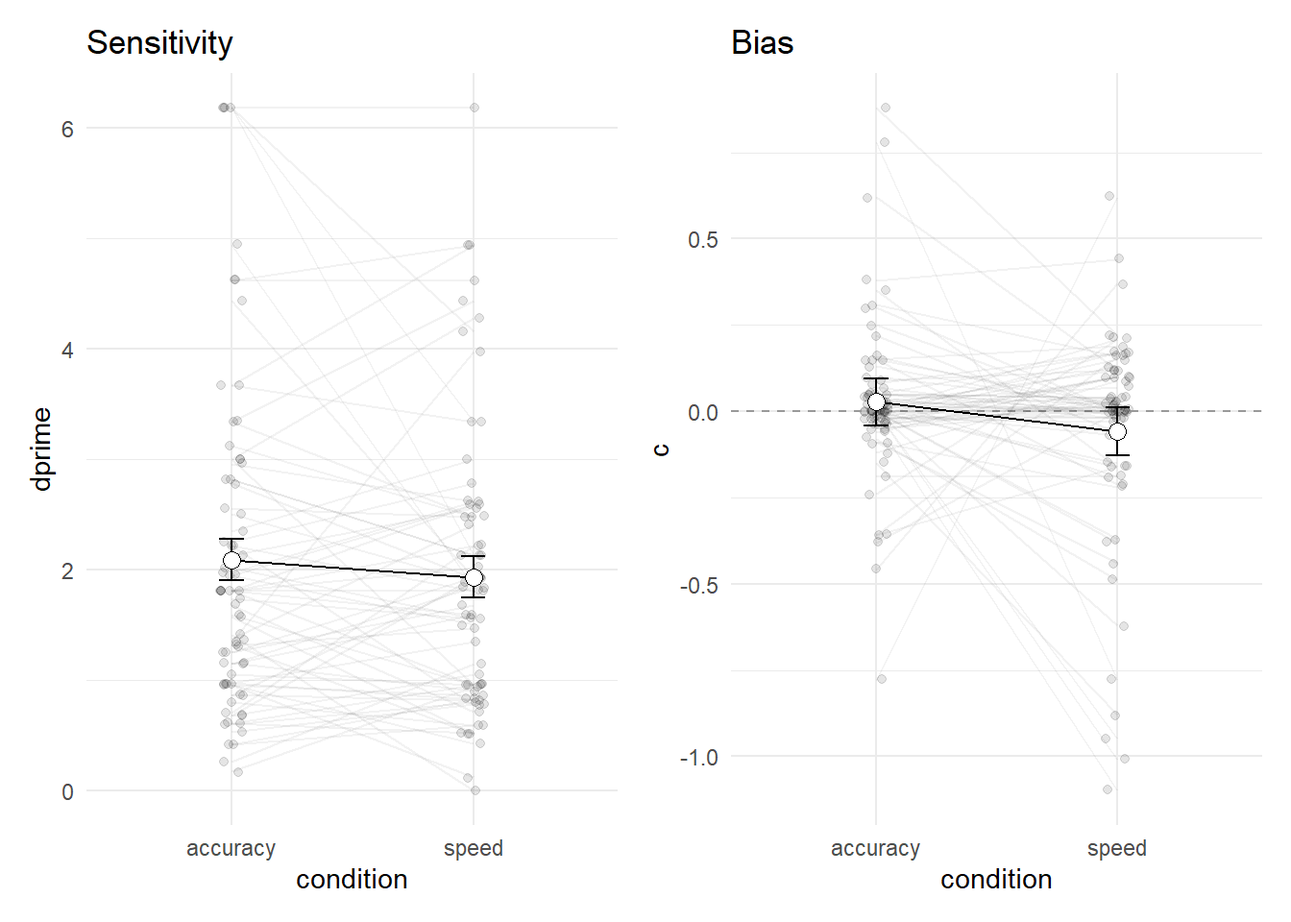
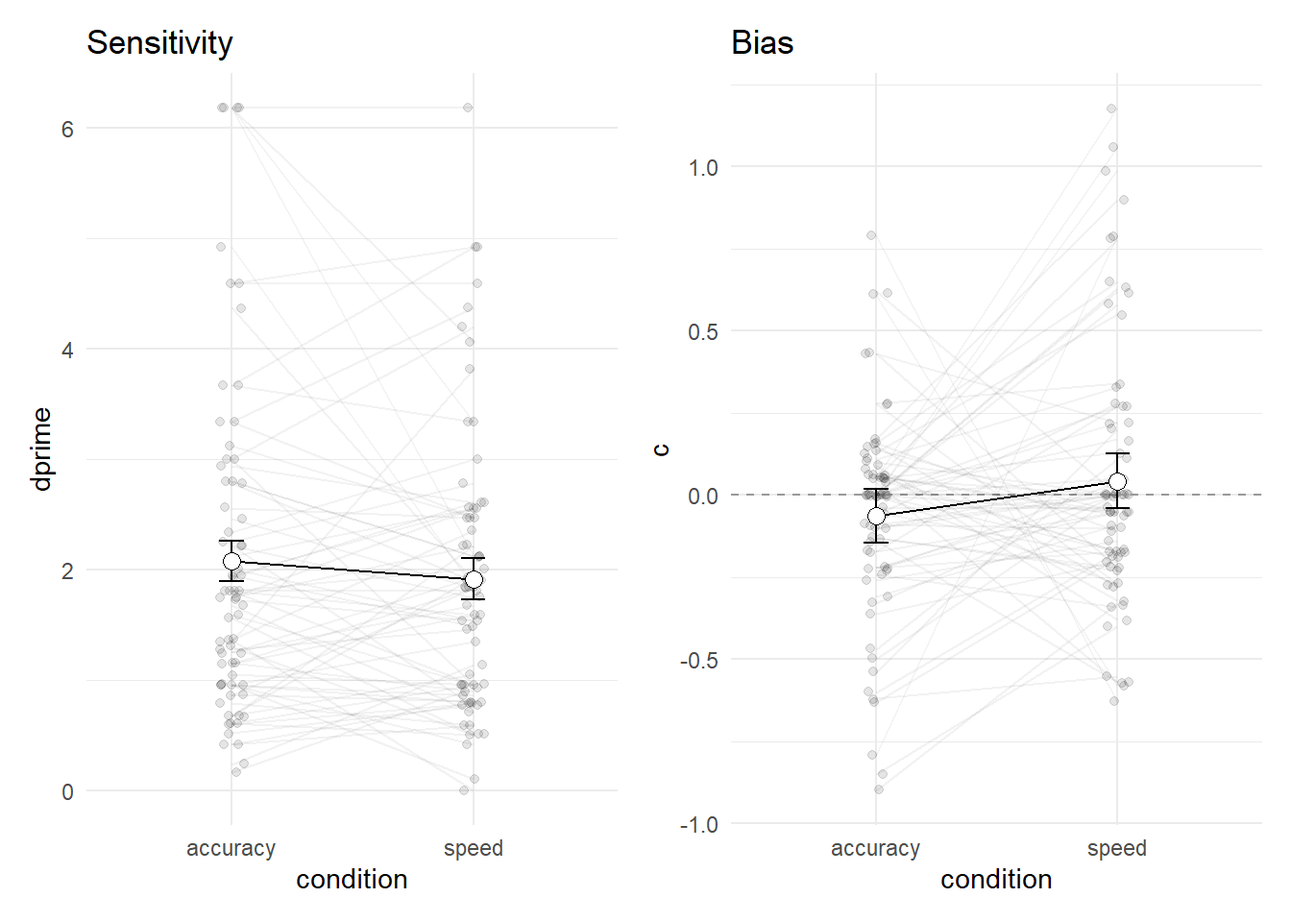
fix typo sdt

diff --git a/docs/sdt.html b/docs/sdt.html
@@ -726,11 +726,11 @@ Hands-on: Hit, False Alarm, Miss und Correct Rejection labeln
 <div class="cell-output cell-output-stdout">
 <pre><code>       id trial direction condition corrAns  resp corr        rt type
 1 sub-007     1     right     speed   right right    1 0.6537022  Hit
-2 sub-007     2      left     speed    left right    0 0.5821858 Miss
+2 sub-007     2      left     speed    left right    0 0.5821858   FA
 3 sub-007     3      left     speed    left  left    1 1.3868371   CR
 4 sub-007     4     right     speed   right right    1 0.9550371  Hit
-5 sub-007     5      left     speed    left right    0 0.4990127 Miss
-6 sub-007     6     right     speed   right  left    0 0.6926959   FA</code></pre>
+5 sub-007     5      left     speed    left right    0 0.4990127   FA
+6 sub-007     6     right     speed   right  left    0 0.6926959 Miss</code></pre>
 </div>
 </div>
 </div>
@@ -790,9 +790,9 @@ Relative Häufigkeiten von <em>Hits</em> und <em>False Alarms</em> berechnen
    id      condition type      n
    &lt;chr&gt;   &lt;chr&gt;     &lt;chr&gt; &lt;int&gt;
  1 sub-007 accuracy  CR       21
- 2 sub-007 accuracy  FA       10
+ 2 sub-007 accuracy  FA        9
  3 sub-007 accuracy  Hit      20
- 4 sub-007 accuracy  Miss      9
+ 4 sub-007 accuracy  Miss     10
  5 sub-007 speed     CR       20
  6 sub-007 speed     FA       10
  7 sub-007 speed     Hit      20
@@ -815,16 +815,16 @@ Relative Häufigkeiten von <em>Hits</em> und <em>False Alarms</em> berechnen
 # Groups:   id, condition [140]
    id      condition    CR    FA   Hit  Miss
    &lt;chr&gt;   &lt;chr&gt;     &lt;int&gt; &lt;int&gt; &lt;int&gt; &lt;int&gt;
- 1 sub-007 accuracy     21    10    20     9
+ 1 sub-007 accuracy     21     9    20    10
  2 sub-007 speed        20    10    20    10
  3 sub-010 accuracy     30    NA    30    NA
  4 sub-010 speed        30    NA    30    NA
- 5 sub-011 accuracy     26     1    29     4
- 6 sub-011 speed        26     2    28     4
+ 5 sub-011 accuracy     26     4    29     1
+ 6 sub-011 speed        26     4    28     2
  7 sub-012 accuracy     29     1    29     1
- 8 sub-012 speed        30     1    29    NA
- 9 sub-015 accuracy     25     6    24     5
-10 sub-015 speed        22     5    25     8
+ 8 sub-012 speed        30    NA    29     1
+ 9 sub-015 accuracy     25     5    24     6
+10 sub-015 speed        22     8    25     5
 # ℹ 130 more rows</code></pre>
 </div>
 </div>
@@ -847,16 +847,16 @@ Relative Häufigkeiten von <em>Hits</em> und <em>False Alarms</em> berechnen
 # Groups:   id, condition [140]
    id      condition    CR    FA   Hit  Miss
    &lt;chr&gt;   &lt;chr&gt;     &lt;int&gt; &lt;dbl&gt; &lt;int&gt; &lt;dbl&gt;
- 1 sub-007 accuracy     21    10    20     9
+ 1 sub-007 accuracy     21     9    20    10
  2 sub-007 speed        20    10    20    10
  3 sub-010 accuracy     30     0    30     0
  4 sub-010 speed        30     0    30     0
- 5 sub-011 accuracy     26     1    29     4
- 6 sub-011 speed        26     2    28     4
+ 5 sub-011 accuracy     26     4    29     1
+ 6 sub-011 speed        26     4    28     2
  7 sub-012 accuracy     29     1    29     1
- 8 sub-012 speed        30     1    29     0
- 9 sub-015 accuracy     25     6    24     5
-10 sub-015 speed        22     5    25     8
+ 8 sub-012 speed        30     0    29     1
+ 9 sub-015 accuracy     25     5    24     6
+10 sub-015 speed        22     8    25     5
 # ℹ 130 more rows</code></pre>
 </div>
 </div>
@@ -890,16 +890,16 @@ Hands-on: <em>Hit Rate</em> und <em>False Alarm Rate</em> berechnen
 # Groups:   id, condition [140]
    id      condition    CR    FA   Hit  Miss hit_rate fa_rate
    &lt;chr&gt;   &lt;chr&gt;     &lt;int&gt; &lt;dbl&gt; &lt;int&gt; &lt;dbl&gt;    &lt;dbl&gt;   &lt;dbl&gt;
- 1 sub-007 accuracy     21    10    20     9    0.690  0.323 
+ 1 sub-007 accuracy     21     9    20    10    0.667  0.3   
  2 sub-007 speed        20    10    20    10    0.667  0.333 
  3 sub-010 accuracy     30     0    30     0    1      0     
  4 sub-010 speed        30     0    30     0    1      0     
- 5 sub-011 accuracy     26     1    29     4    0.879  0.0370
- 6 sub-011 speed        26     2    28     4    0.875  0.0714
+ 5 sub-011 accuracy     26     4    29     1    0.967  0.133 
+ 6 sub-011 speed        26     4    28     2    0.933  0.133 
  7 sub-012 accuracy     29     1    29     1    0.967  0.0333
- 8 sub-012 speed        30     1    29     0    1      0.0323
- 9 sub-015 accuracy     25     6    24     5    0.828  0.194 
-10 sub-015 speed        22     5    25     8    0.758  0.185 
+ 8 sub-012 speed        30     0    29     1    0.967  0     
+ 9 sub-015 accuracy     25     5    24     6    0.8    0.167 
+10 sub-015 speed        22     8    25     5    0.833  0.267 
 # ℹ 130 more rows</code></pre>
 </div>
 </div>
@@ -929,16 +929,16 @@ Hands-on: <em>Hit Rate</em> und <em>False Alarm Rate</em> berechnen
 # Groups:   id, condition [140]
    id      condition    CR    FA   Hit  Miss hit_rate fa_rate
    &lt;chr&gt;   &lt;chr&gt;     &lt;int&gt; &lt;dbl&gt; &lt;int&gt; &lt;dbl&gt;    &lt;dbl&gt;   &lt;dbl&gt;
- 1 sub-007 accuracy     21    10    20     9    0.690  0.323 
+ 1 sub-007 accuracy     21     9    20    10    0.667  0.3   
  2 sub-007 speed        20    10    20    10    0.667  0.333 
  3 sub-010 accuracy     30     0    30     0    0.999  0.001 
  4 sub-010 speed        30     0    30     0    0.999  0.001 
- 5 sub-011 accuracy     26     1    29     4    0.879  0.0370
- 6 sub-011 speed        26     2    28     4    0.875  0.0714
+ 5 sub-011 accuracy     26     4    29     1    0.967  0.133 
+ 6 sub-011 speed        26     4    28     2    0.933  0.133 
  7 sub-012 accuracy     29     1    29     1    0.967  0.0333
- 8 sub-012 speed        30     1    29     0    0.999  0.0323
- 9 sub-015 accuracy     25     6    24     5    0.828  0.194 
-10 sub-015 speed        22     5    25     8    0.758  0.185 
+ 8 sub-012 speed        30     0    29     1    0.967  0.001 
+ 9 sub-015 accuracy     25     5    24     6    0.8    0.167 
+10 sub-015 speed        22     8    25     5    0.833  0.267 
 # ℹ 130 more rows</code></pre>
 </div>
 </div>
@@ -968,16 +968,16 @@ Hands-on: <span class="math inline">\(z\)</span>-Transformation
 # Groups:   id, condition [140]
    id      condition    CR    FA   Hit  Miss hit_rate fa_rate   zhr    zfa
    &lt;chr&gt;   &lt;chr&gt;     &lt;int&gt; &lt;dbl&gt; &lt;int&gt; &lt;dbl&gt;    &lt;dbl&gt;   &lt;dbl&gt; &lt;dbl&gt;  &lt;dbl&gt;
- 1 sub-007 accuracy     21    10    20     9    0.690  0.323  0.495 -0.460
+ 1 sub-007 accuracy     21     9    20    10    0.667  0.3    0.431 -0.524
  2 sub-007 speed        20    10    20    10    0.667  0.333  0.431 -0.431
  3 sub-010 accuracy     30     0    30     0    0.999  0.001  3.09  -3.09 
  4 sub-010 speed        30     0    30     0    0.999  0.001  3.09  -3.09 
- 5 sub-011 accuracy     26     1    29     4    0.879  0.0370 1.17  -1.79 
- 6 sub-011 speed        26     2    28     4    0.875  0.0714 1.15  -1.47 
+ 5 sub-011 accuracy     26     4    29     1    0.967  0.133  1.83  -1.11 
+ 6 sub-011 speed        26     4    28     2    0.933  0.133  1.50  -1.11 
  7 sub-012 accuracy     29     1    29     1    0.967  0.0333 1.83  -1.83 
- 8 sub-012 speed        30     1    29     0    0.999  0.0323 3.09  -1.85 
- 9 sub-015 accuracy     25     6    24     5    0.828  0.194  0.945 -0.865
-10 sub-015 speed        22     5    25     8    0.758  0.185  0.699 -0.896
+ 8 sub-012 speed        30     0    29     1    0.967  0.001  1.83  -3.09 
+ 9 sub-015 accuracy     25     5    24     6    0.8    0.167  0.842 -0.967
+10 sub-015 speed        22     8    25     5    0.833  0.267  0.967 -0.623
 # ℹ 130 more rows</code></pre>
 </div>
 </div>
@@ -1013,16 +1013,16 @@ Hands-on: <span class="math inline">\(d'\)</span> und <span class="math inline">
 # Groups:   id, condition [140]
    id     condition    CR    FA   Hit  Miss hit_rate fa_rate   zhr    zfa dprime
    &lt;chr&gt;  &lt;chr&gt;     &lt;int&gt; &lt;dbl&gt; &lt;int&gt; &lt;dbl&gt;    &lt;dbl&gt;   &lt;dbl&gt; &lt;dbl&gt;  &lt;dbl&gt;  &lt;dbl&gt;
- 1 sub-0… accuracy     21    10    20     9    0.690  0.323  0.495 -0.460   0.96
+ 1 sub-0… accuracy     21     9    20    10    0.667  0.3    0.431 -0.524   0.96
  2 sub-0… speed        20    10    20    10    0.667  0.333  0.431 -0.431   0.86
  3 sub-0… accuracy     30     0    30     0    0.999  0.001  3.09  -3.09    6.18
  4 sub-0… speed        30     0    30     0    0.999  0.001  3.09  -3.09    6.18
- 5 sub-0… accuracy     26     1    29     4    0.879  0.0370 1.17  -1.79    2.96
- 6 sub-0… speed        26     2    28     4    0.875  0.0714 1.15  -1.47    2.62
+ 5 sub-0… accuracy     26     4    29     1    0.967  0.133  1.83  -1.11    2.94
+ 6 sub-0… speed        26     4    28     2    0.933  0.133  1.50  -1.11    2.61
  7 sub-0… accuracy     29     1    29     1    0.967  0.0333 1.83  -1.83    3.67
- 8 sub-0… speed        30     1    29     0    0.999  0.0323 3.09  -1.85    4.94
- 9 sub-0… accuracy     25     6    24     5    0.828  0.194  0.945 -0.865   1.81
-10 sub-0… speed        22     5    25     8    0.758  0.185  0.699 -0.896   1.59
+ 8 sub-0… speed        30     0    29     1    0.967  0.001  1.83  -3.09    4.92
+ 9 sub-0… accuracy     25     5    24     6    0.8    0.167  0.842 -0.967   1.81
+10 sub-0… speed        22     8    25     5    0.833  0.267  0.967 -0.623   1.59
 # ℹ 130 more rows
 # ℹ 2 more variables: k &lt;dbl&gt;, c &lt;dbl&gt;</code></pre>
 </div>
@@ -1054,16 +1054,16 @@ Hands-on: Datensatz erstellen
 # Groups:   id, condition [140]
    id      condition dprime     c
    &lt;chr&gt;   &lt;chr&gt;      &lt;dbl&gt; &lt;dbl&gt;
- 1 sub-007 accuracy    0.96 -0.02
+ 1 sub-007 accuracy    0.96  0.05
  2 sub-007 speed       0.86  0   
  3 sub-010 accuracy    6.18  0   
  4 sub-010 speed       6.18  0   
- 5 sub-011 accuracy    2.96  0.31
- 6 sub-011 speed       2.62  0.16
+ 5 sub-011 accuracy    2.94 -0.36
+ 6 sub-011 speed       2.61 -0.2 
  7 sub-012 accuracy    3.67  0   
- 8 sub-012 speed       4.94 -0.62
- 9 sub-015 accuracy    1.81 -0.04
-10 sub-015 speed       1.59  0.1 
+ 8 sub-012 speed       4.92  0.63
+ 9 sub-015 accuracy    1.81  0.06
+10 sub-015 speed       1.59 -0.17
 # ℹ 130 more rows</code></pre>
 </div>
 </div>

diff --git a/docs/intro_python.html b/docs/intro_python.html
@@ -267,7 +267,7 @@ globalThis.qpyodideCustomizedPyodideOptions = {
 }
 
 // Store cell data
-globalThis.qpyodideCellDetails = [{"id":1,"code":"x = 5\nprint(x)\n\nmeine_liste = [10, 20, 30]\nprint(meine_liste[0])  # Erstes Element\nprint(meine_liste[-1]) # Letztes Element\n\n# Dictionary\nteilnehmer = {\"id\": \"S01\", \"alter\": 22}\nprint(teilnehmer[\"id\"])\n\nimport numpy as np\n# Array\nsignal = np.array([0.1, 0.2, 0.3])\nprint(signal.mean())","options":{"fig-height":5,"message":"true","classes":"","output":"true","read-only":"false","fig-width":7,"results":"markup","dpi":72,"warning":"true","context":"interactive","out-height":"","out-width":"700px","comment":"","autorun":"","label":"","fig-cap":""}},{"id":2,"code":"","options":{"fig-height":5,"message":"true","classes":"","output":"true","read-only":"false","fig-width":7,"results":"markup","dpi":72,"warning":"true","context":"interactive","out-height":"","out-width":"700px","comment":"","autorun":"","label":"","fig-cap":""}},{"id":3,"code":"import pandas as pd\nimport matplotlib.pyplot as plt","options":{"fig-height":5,"message":"true","classes":"","output":"true","read-only":"false","fig-width":7,"results":"markup","dpi":72,"warning":"true","context":"interactive","out-height":"","out-width":"700px","comment":"","autorun":"","label":"","fig-cap":""}},{"id":4,"code":"","options":{"fig-height":5,"message":"true","classes":"","output":"true","read-only":"false","fig-width":7,"results":"markup","dpi":72,"warning":"true","context":"interactive","out-height":"","out-width":"700px","comment":"","autorun":"","label":"","fig-cap":""}},{"id":5,"code":"","options":{"fig-height":5,"message":"true","classes":"","output":"true","read-only":"false","fig-width":7,"results":"markup","dpi":72,"warning":"true","context":"interactive","out-height":"","out-width":"700px","comment":"","autorun":"","label":"","fig-cap":""}},{"id":6,"code":"import pandas as pd\n\ndf = pd.read_csv(\"https://raw.githubusercontent.com/mwaskom/seaborn-data/master/iris.csv\")\n\nprint(df.head())","options":{"fig-height":5,"message":"true","classes":"","output":"true","read-only":"false","fig-width":7,"results":"markup","dpi":72,"warning":"true","context":"interactive","out-height":"","out-width":"700px","comment":"","autorun":"","label":"","fig-cap":""}},{"id":7,"code":"","options":{"fig-height":5,"message":"true","classes":"","output":"true","read-only":"false","fig-width":7,"results":"markup","dpi":72,"warning":"true","context":"interactive","out-height":"","out-width":"700px","comment":"","autorun":"","label":"","fig-cap":""}},{"id":8,"code":"# Eine Spalte anzeigen\nprint(df[\"species\"])\n\n# Erste drei Zeilen\nprint(df.head(3))\n\n# Erste Zeile\nprint(df.iloc[0])\n\n# Wert aus Zeile 1, Spalte \"sepal_length\"\nprint(df.iloc[0][\"sepal_length\"])","options":{"fig-height":5,"message":"true","classes":"","output":"true","read-only":"false","fig-width":7,"results":"markup","dpi":72,"warning":"true","context":"interactive","out-height":"","out-width":"700px","comment":"","autorun":"","label":"","fig-cap":""}},{"id":9,"code":"","options":{"fig-height":5,"message":"true","classes":"","output":"true","read-only":"false","fig-width":7,"results":"markup","dpi":72,"warning":"true","context":"interactive","out-height":"","out-width":"700px","comment":"","autorun":"","label":"","fig-cap":""}},{"id":10,"code":"# Filter\nsetosa = df[df[\"species\"] == \"setosa\"]\n\n# Neue Spalte\ndf[\"sepal_shorter\"] = df[\"sepal_length\"] - 1","options":{"fig-height":5,"message":"true","classes":"","output":"true","read-only":"false","fig-width":7,"results":"markup","dpi":72,"warning":"true","context":"interactive","out-height":"","out-width":"700px","comment":"","autorun":"","label":"","fig-cap":""}},{"id":11,"code":"","options":{"fig-height":5,"message":"true","classes":"","output":"true","read-only":"false","fig-width":7,"results":"markup","dpi":72,"warning":"true","context":"interactive","out-height":"","out-width":"700px","comment":"","autorun":"","label":"","fig-cap":""}},{"id":12,"code":"","options":{"fig-height":5,"message":"true","classes":"","output":"true","read-only":"false","fig-width":7,"results":"markup","dpi":72,"warning":"true","context":"interactive","out-height":"","out-width":"700px","comment":"","autorun":"","label":"","fig-cap":""}}];
+globalThis.qpyodideCellDetails = [{"id":1,"code":"x = 5\nprint(x)\n\nmeine_liste = [10, 20, 30]\nprint(meine_liste[0])  # Erstes Element\nprint(meine_liste[-1]) # Letztes Element\n\n# Dictionary\nteilnehmer = {\"id\": \"S01\", \"alter\": 22}\nprint(teilnehmer[\"id\"])\n\nimport numpy as np\n# Array\nsignal = np.array([0.1, 0.2, 0.3])\nprint(signal.mean())","options":{"fig-height":5,"classes":"","context":"interactive","message":"true","results":"markup","warning":"true","out-height":"","output":"true","fig-width":7,"autorun":"","dpi":72,"read-only":"false","out-width":"700px","label":"","comment":"","fig-cap":""}},{"id":2,"code":"","options":{"fig-height":5,"classes":"","context":"interactive","message":"true","results":"markup","warning":"true","out-height":"","output":"true","fig-width":7,"autorun":"","dpi":72,"read-only":"false","out-width":"700px","label":"","comment":"","fig-cap":""}},{"id":3,"code":"import pandas as pd\nimport matplotlib.pyplot as plt","options":{"fig-height":5,"classes":"","context":"interactive","message":"true","results":"markup","warning":"true","out-height":"","output":"true","fig-width":7,"autorun":"","dpi":72,"read-only":"false","out-width":"700px","label":"","comment":"","fig-cap":""}},{"id":4,"code":"","options":{"fig-height":5,"classes":"","context":"interactive","message":"true","results":"markup","warning":"true","out-height":"","output":"true","fig-width":7,"autorun":"","dpi":72,"read-only":"false","out-width":"700px","label":"","comment":"","fig-cap":""}},{"id":5,"code":"","options":{"fig-height":5,"classes":"","context":"interactive","message":"true","results":"markup","warning":"true","out-height":"","output":"true","fig-width":7,"autorun":"","dpi":72,"read-only":"false","out-width":"700px","label":"","comment":"","fig-cap":""}},{"id":6,"code":"import pandas as pd\n\ndf = pd.read_csv(\"https://raw.githubusercontent.com/mwaskom/seaborn-data/master/iris.csv\")\n\nprint(df.head())","options":{"fig-height":5,"classes":"","context":"interactive","message":"true","results":"markup","warning":"true","out-height":"","output":"true","fig-width":7,"autorun":"","dpi":72,"read-only":"false","out-width":"700px","label":"","comment":"","fig-cap":""}},{"id":7,"code":"","options":{"fig-height":5,"classes":"","context":"interactive","message":"true","results":"markup","warning":"true","out-height":"","output":"true","fig-width":7,"autorun":"","dpi":72,"read-only":"false","out-width":"700px","label":"","comment":"","fig-cap":""}},{"id":8,"code":"# Eine Spalte anzeigen\nprint(df[\"species\"])\n\n# Erste drei Zeilen\nprint(df.head(3))\n\n# Erste Zeile\nprint(df.iloc[0])\n\n# Wert aus Zeile 1, Spalte \"sepal_length\"\nprint(df.iloc[0][\"sepal_length\"])","options":{"fig-height":5,"classes":"","context":"interactive","message":"true","results":"markup","warning":"true","out-height":"","output":"true","fig-width":7,"autorun":"","dpi":72,"read-only":"false","out-width":"700px","label":"","comment":"","fig-cap":""}},{"id":9,"code":"","options":{"fig-height":5,"classes":"","context":"interactive","message":"true","results":"markup","warning":"true","out-height":"","output":"true","fig-width":7,"autorun":"","dpi":72,"read-only":"false","out-width":"700px","label":"","comment":"","fig-cap":""}},{"id":10,"code":"# Filter\nsetosa = df[df[\"species\"] == \"setosa\"]\n\n# Neue Spalte\ndf[\"sepal_shorter\"] = df[\"sepal_length\"] - 1","options":{"fig-height":5,"classes":"","context":"interactive","message":"true","results":"markup","warning":"true","out-height":"","output":"true","fig-width":7,"autorun":"","dpi":72,"read-only":"false","out-width":"700px","label":"","comment":"","fig-cap":""}},{"id":11,"code":"","options":{"fig-height":5,"classes":"","context":"interactive","message":"true","results":"markup","warning":"true","out-height":"","output":"true","fig-width":7,"autorun":"","dpi":72,"read-only":"false","out-width":"700px","label":"","comment":"","fig-cap":""}},{"id":12,"code":"","options":{"fig-height":5,"classes":"","context":"interactive","message":"true","results":"markup","warning":"true","out-height":"","output":"true","fig-width":7,"autorun":"","dpi":72,"read-only":"false","out-width":"700px","label":"","comment":"","fig-cap":""}}];
 
 
 </script>

diff --git a/docs/loops.html b/docs/loops.html
@@ -267,7 +267,7 @@ globalThis.qpyodideCustomizedPyodideOptions = {
 }
 
 // Store cell data
-globalThis.qpyodideCellDetails = [{"id":1,"options":{"output":"true","message":"true","out-height":"","dpi":72,"out-width":"700px","read-only":"false","comment":"","label":"","autorun":"","classes":"","fig-width":7,"results":"markup","warning":"true","context":"interactive","fig-height":5,"fig-cap":""},"code":"hirnregionen = [\"Frontallappen\", \"Okzipitallappen\", \"Temporallappen\"]\nfor hirnregion in hirnregionen:   \n    print(\"Ich mag den\", hirnregion, \"!\")"},{"id":2,"options":{"output":"true","message":"true","out-height":"","dpi":72,"out-width":"700px","read-only":"false","comment":"","label":"","autorun":"","classes":"","fig-width":7,"results":"markup","warning":"true","context":"interactive","fig-height":5,"fig-cap":""},"code":"for i in range(5):  # Iteriert von 0 bis 4\n    print(\"Iteration Nummer:\", i)"},{"id":3,"options":{"output":"true","message":"true","out-height":"","dpi":72,"out-width":"700px","read-only":"false","comment":"","label":"","autorun":"","classes":"","fig-width":7,"results":"markup","warning":"true","context":"interactive","fig-height":5,"fig-cap":""},"code":"zaehler = 0\nwhile zaehler < 3:\n    print(\"Dies ist Schleifeniteration:\", zaehler)\n    zaehler = zaehler + 1  # Erhöht den Zähler, um eine Endlosschleife zu vermeiden"},{"id":4,"options":{"output":"true","message":"true","out-height":"","dpi":72,"out-width":"700px","read-only":"false","comment":"","label":"","autorun":"","classes":"","fig-width":7,"results":"markup","warning":"true","context":"interactive","fig-height":5,"fig-cap":""},"code":""},{"id":5,"options":{"output":"true","message":"true","out-height":"","dpi":72,"out-width":"700px","read-only":"false","comment":"","label":"","autorun":"","classes":"","fig-width":7,"results":"markup","warning":"true","context":"interactive","fig-height":5,"fig-cap":""},"code":""},{"id":6,"options":{"output":"true","message":"true","out-height":"","dpi":72,"out-width":"700px","read-only":"false","comment":"","label":"","autorun":"","classes":"","fig-width":7,"results":"markup","warning":"true","context":"interactive","fig-height":5,"fig-cap":""},"code":""},{"id":7,"options":{"output":"true","message":"true","out-height":"","dpi":72,"out-width":"700px","read-only":"false","comment":"","label":"","autorun":"","classes":"","fig-width":7,"results":"markup","warning":"true","context":"interactive","fig-height":5,"fig-cap":""},"code":"i = 1\nwhile i <= 100:\n    print(i)\n    if i == 39:\n        i = 61\n    else:\n        i = i + 1"},{"id":8,"options":{"output":"true","message":"true","out-height":"","dpi":72,"out-width":"700px","read-only":"false","comment":"","label":"","autorun":"","classes":"","fig-width":7,"results":"markup","warning":"true","context":"interactive","fig-height":5,"fig-cap":""},"code":"donuts = 5\nwhile donuts > 0:\n    print(\"Ich esse einen Donut. Lecker!\")\n    donuts = donuts - 1\n    if donuts == 1:\n        print(\"Oh nein! Nur noch ein Donut übrig!\")\n    elif donuts == 0:\n        print(\"Keine Donuts mehr... Zeit, neue zu kaufen!\")"},{"id":9,"options":{"output":"true","message":"true","out-height":"","dpi":72,"out-width":"700px","read-only":"false","comment":"","label":"","autorun":"","classes":"","fig-width":7,"results":"markup","warning":"true","context":"interactive","fig-height":5,"fig-cap":""},"code":"i = 0\nwhile i < 1:\n    i = i - 1\n    print(i)  # Diese Schleife läuft endlos!"}];
+globalThis.qpyodideCellDetails = [{"code":"hirnregionen = [\"Frontallappen\", \"Okzipitallappen\", \"Temporallappen\"]\nfor hirnregion in hirnregionen:   \n    print(\"Ich mag den\", hirnregion, \"!\")","id":1,"options":{"results":"markup","read-only":"false","autorun":"","out-width":"700px","fig-height":5,"classes":"","warning":"true","comment":"","context":"interactive","output":"true","dpi":72,"fig-cap":"","message":"true","fig-width":7,"label":"","out-height":""}},{"code":"for i in range(5):  # Iteriert von 0 bis 4\n    print(\"Iteration Nummer:\", i)","id":2,"options":{"results":"markup","read-only":"false","autorun":"","out-width":"700px","fig-height":5,"classes":"","warning":"true","comment":"","context":"interactive","output":"true","dpi":72,"fig-cap":"","message":"true","fig-width":7,"label":"","out-height":""}},{"code":"zaehler = 0\nwhile zaehler < 3:\n    print(\"Dies ist Schleifeniteration:\", zaehler)\n    zaehler = zaehler + 1  # Erhöht den Zähler, um eine Endlosschleife zu vermeiden","id":3,"options":{"results":"markup","read-only":"false","autorun":"","out-width":"700px","fig-height":5,"classes":"","warning":"true","comment":"","context":"interactive","output":"true","dpi":72,"fig-cap":"","message":"true","fig-width":7,"label":"","out-height":""}},{"code":"","id":4,"options":{"results":"markup","read-only":"false","autorun":"","out-width":"700px","fig-height":5,"classes":"","warning":"true","comment":"","context":"interactive","output":"true","dpi":72,"fig-cap":"","message":"true","fig-width":7,"label":"","out-height":""}},{"code":"","id":5,"options":{"results":"markup","read-only":"false","autorun":"","out-width":"700px","fig-height":5,"classes":"","warning":"true","comment":"","context":"interactive","output":"true","dpi":72,"fig-cap":"","message":"true","fig-width":7,"label":"","out-height":""}},{"code":"","id":6,"options":{"results":"markup","read-only":"false","autorun":"","out-width":"700px","fig-height":5,"classes":"","warning":"true","comment":"","context":"interactive","output":"true","dpi":72,"fig-cap":"","message":"true","fig-width":7,"label":"","out-height":""}},{"code":"i = 1\nwhile i <= 100:\n    print(i)\n    if i == 39:\n        i = 61\n    else:\n        i = i + 1","id":7,"options":{"results":"markup","read-only":"false","autorun":"","out-width":"700px","fig-height":5,"classes":"","warning":"true","comment":"","context":"interactive","output":"true","dpi":72,"fig-cap":"","message":"true","fig-width":7,"label":"","out-height":""}},{"code":"donuts = 5\nwhile donuts > 0:\n    print(\"Ich esse einen Donut. Lecker!\")\n    donuts = donuts - 1\n    if donuts == 1:\n        print(\"Oh nein! Nur noch ein Donut übrig!\")\n    elif donuts == 0:\n        print(\"Keine Donuts mehr... Zeit, neue zu kaufen!\")","id":8,"options":{"results":"markup","read-only":"false","autorun":"","out-width":"700px","fig-height":5,"classes":"","warning":"true","comment":"","context":"interactive","output":"true","dpi":72,"fig-cap":"","message":"true","fig-width":7,"label":"","out-height":""}},{"code":"i = 0\nwhile i < 1:\n    i = i - 1\n    print(i)  # Diese Schleife läuft endlos!","id":9,"options":{"results":"markup","read-only":"false","autorun":"","out-width":"700px","fig-height":5,"classes":"","warning":"true","comment":"","context":"interactive","output":"true","dpi":72,"fig-cap":"","message":"true","fig-width":7,"label":"","out-height":""}}];
 
 
 </script>

diff --git a/docs/webrconsole.html b/docs/webrconsole.html
@@ -312,7 +312,7 @@ globalThis.qwebrCustomizedWebROptions = {
 };
 
 // Store cell data
-globalThis.qwebrCellDetails = [{"code":"","options":{"out-width":"700px","fig-cap":"","out-height":"","read-only":"false","output":"true","dpi":72,"editor-font-scale":1,"context":"interactive","autorun":"false","comment":"","message":"true","label":"unnamed-chunk-1","fig-height":5,"editor-quick-suggestions":"false","results":"markup","editor-max-height":"","fig-width":7,"warning":"true","classes":""},"id":1}];
+globalThis.qwebrCellDetails = [{"options":{"fig-width":7,"classes":"","context":"interactive","fig-cap":"","out-width":"700px","autorun":"false","editor-quick-suggestions":"false","dpi":72,"label":"unnamed-chunk-1","warning":"true","results":"markup","editor-font-scale":1,"read-only":"false","output":"true","out-height":"","comment":"","message":"true","editor-max-height":"","fig-height":5},"id":1,"code":""}];
 
 </script>
 <script type="module">

diff --git a/docs/index.html b/docs/index.html
@@ -634,8 +634,8 @@ Hands-on
 <tr class="odd">
 <td><a href="">Übung 5: EEG Project</a></td>
 <td style="text-align: center;">09.05.2025</td>
-<td style="text-align: center;">30.05.2025 23:55</td>
-<td style="text-align: left;">tba</td>
+<td style="text-align: center;">06.06.2025 23:55</td>
+<td style="text-align: left;">auf Ilias</td>
 </tr>
 <tr class="even">
 <td><a href="">Abschlussquiz</a></td>
